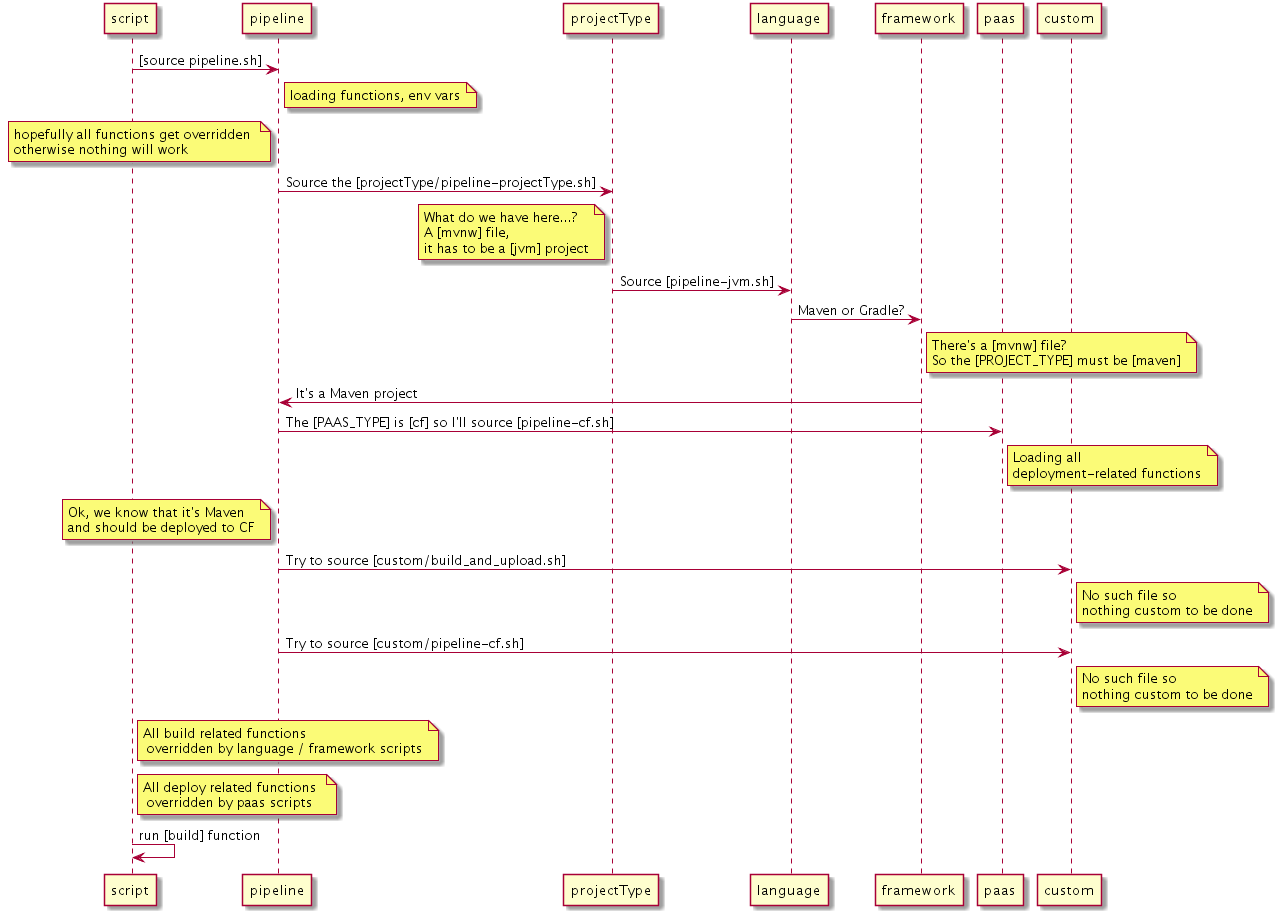
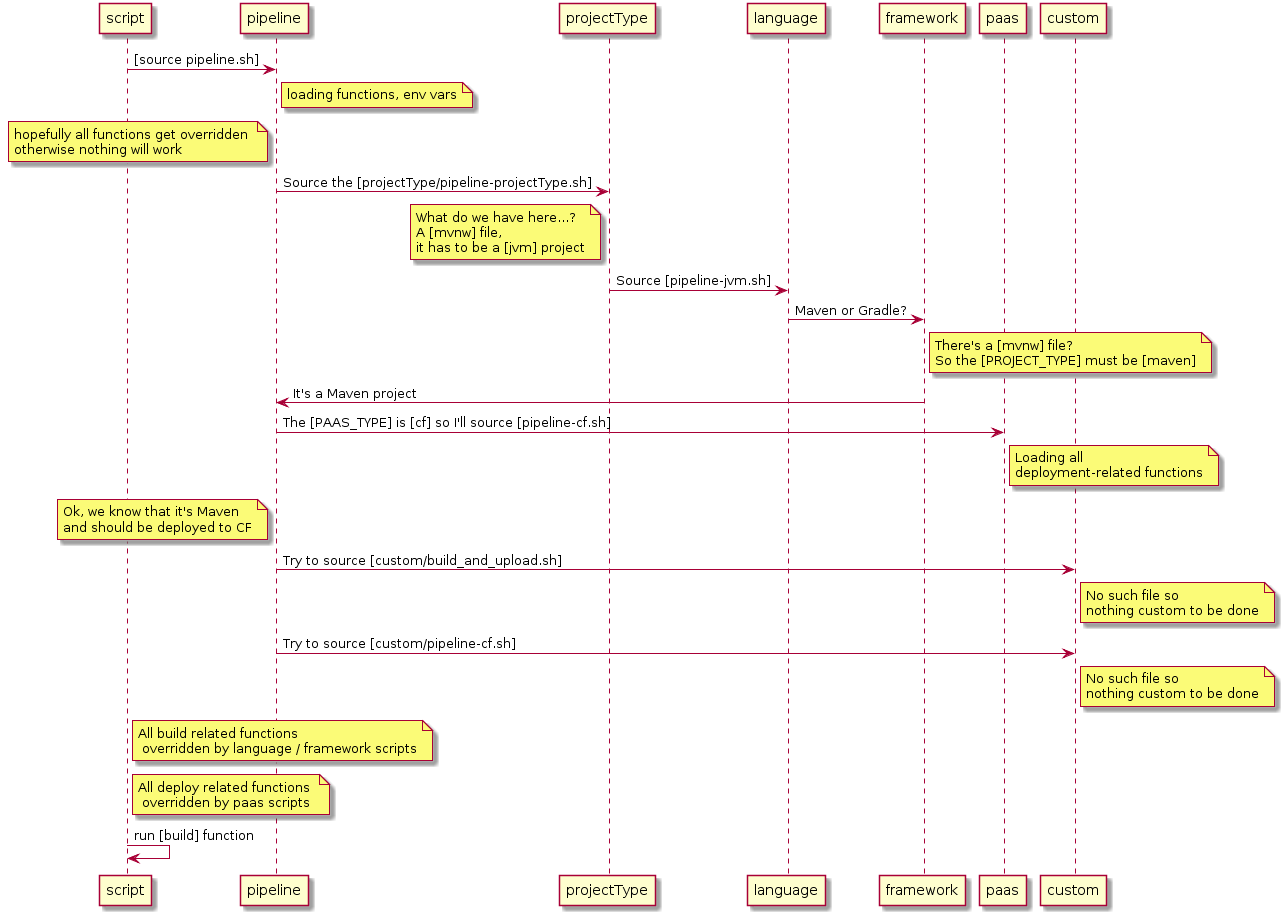
Sync docs

diff --git a/docs/DOCS.html b/docs/DOCS.html
@@ -1349,7 +1349,7 @@ code repository and read <code>src//main/bash/README.adoc</code>.</p>
 </div>
 <div class="imageblock">
 <div class="content">
-<img src="build-and-deployment.png" alt="build and deployment" width="1279" height="915">
+<img src="build-and-deployment.png" alt="build and deployment" width="1285" height="915">
 </div>
 </div>
 <div class="paragraph">
@@ -1373,7 +1373,7 @@ code repository and read <code>src//main/bash/README.adoc</code>.</p>
 </div>
 <div class="imageblock">
 <div class="content">
-<img src="sourcing.png" alt="sourcing" width="823" height="515">
+<img src="sourcing.png" alt="sourcing" width="827" height="515">
 </div>
 </div>
 <div class="paragraph">

diff --git a/docs/INTRO.html b/docs/INTRO.html
@@ -1287,7 +1287,7 @@ code repository and read <code>src//main/bash/README.adoc</code>.</p>
 </div>
 <div class="imageblock">
 <div class="content">
-<img src="build-and-deployment.png" alt="build and deployment" width="1279" height="915">
+<img src="build-and-deployment.png" alt="build and deployment" width="1285" height="915">
 </div>
 </div>
 <div class="paragraph">
@@ -1311,7 +1311,7 @@ code repository and read <code>src//main/bash/README.adoc</code>.</p>
 </div>
 <div class="imageblock">
 <div class="content">
-<img src="sourcing.png" alt="sourcing" width="823" height="515">
+<img src="sourcing.png" alt="sourcing" width="827" height="515">
 </div>
 </div>
 <div class="paragraph">

diff --git a/docs/index.html b/docs/index.html
@@ -1349,7 +1349,7 @@ code repository and read <code>src//main/bash/README.adoc</code>.</p>
 </div>
 <div class="imageblock">
 <div class="content">
-<img src="build-and-deployment.png" alt="build and deployment" width="1279" height="915">
+<img src="build-and-deployment.png" alt="build and deployment" width="1285" height="915">
 </div>
 </div>
 <div class="paragraph">
@@ -1373,7 +1373,7 @@ code repository and read <code>src//main/bash/README.adoc</code>.</p>
 </div>
 <div class="imageblock">
 <div class="content">
-<img src="sourcing.png" alt="sourcing" width="823" height="515">
+<img src="sourcing.png" alt="sourcing" width="827" height="515">
 </div>
 </div>
 <div class="paragraph">
